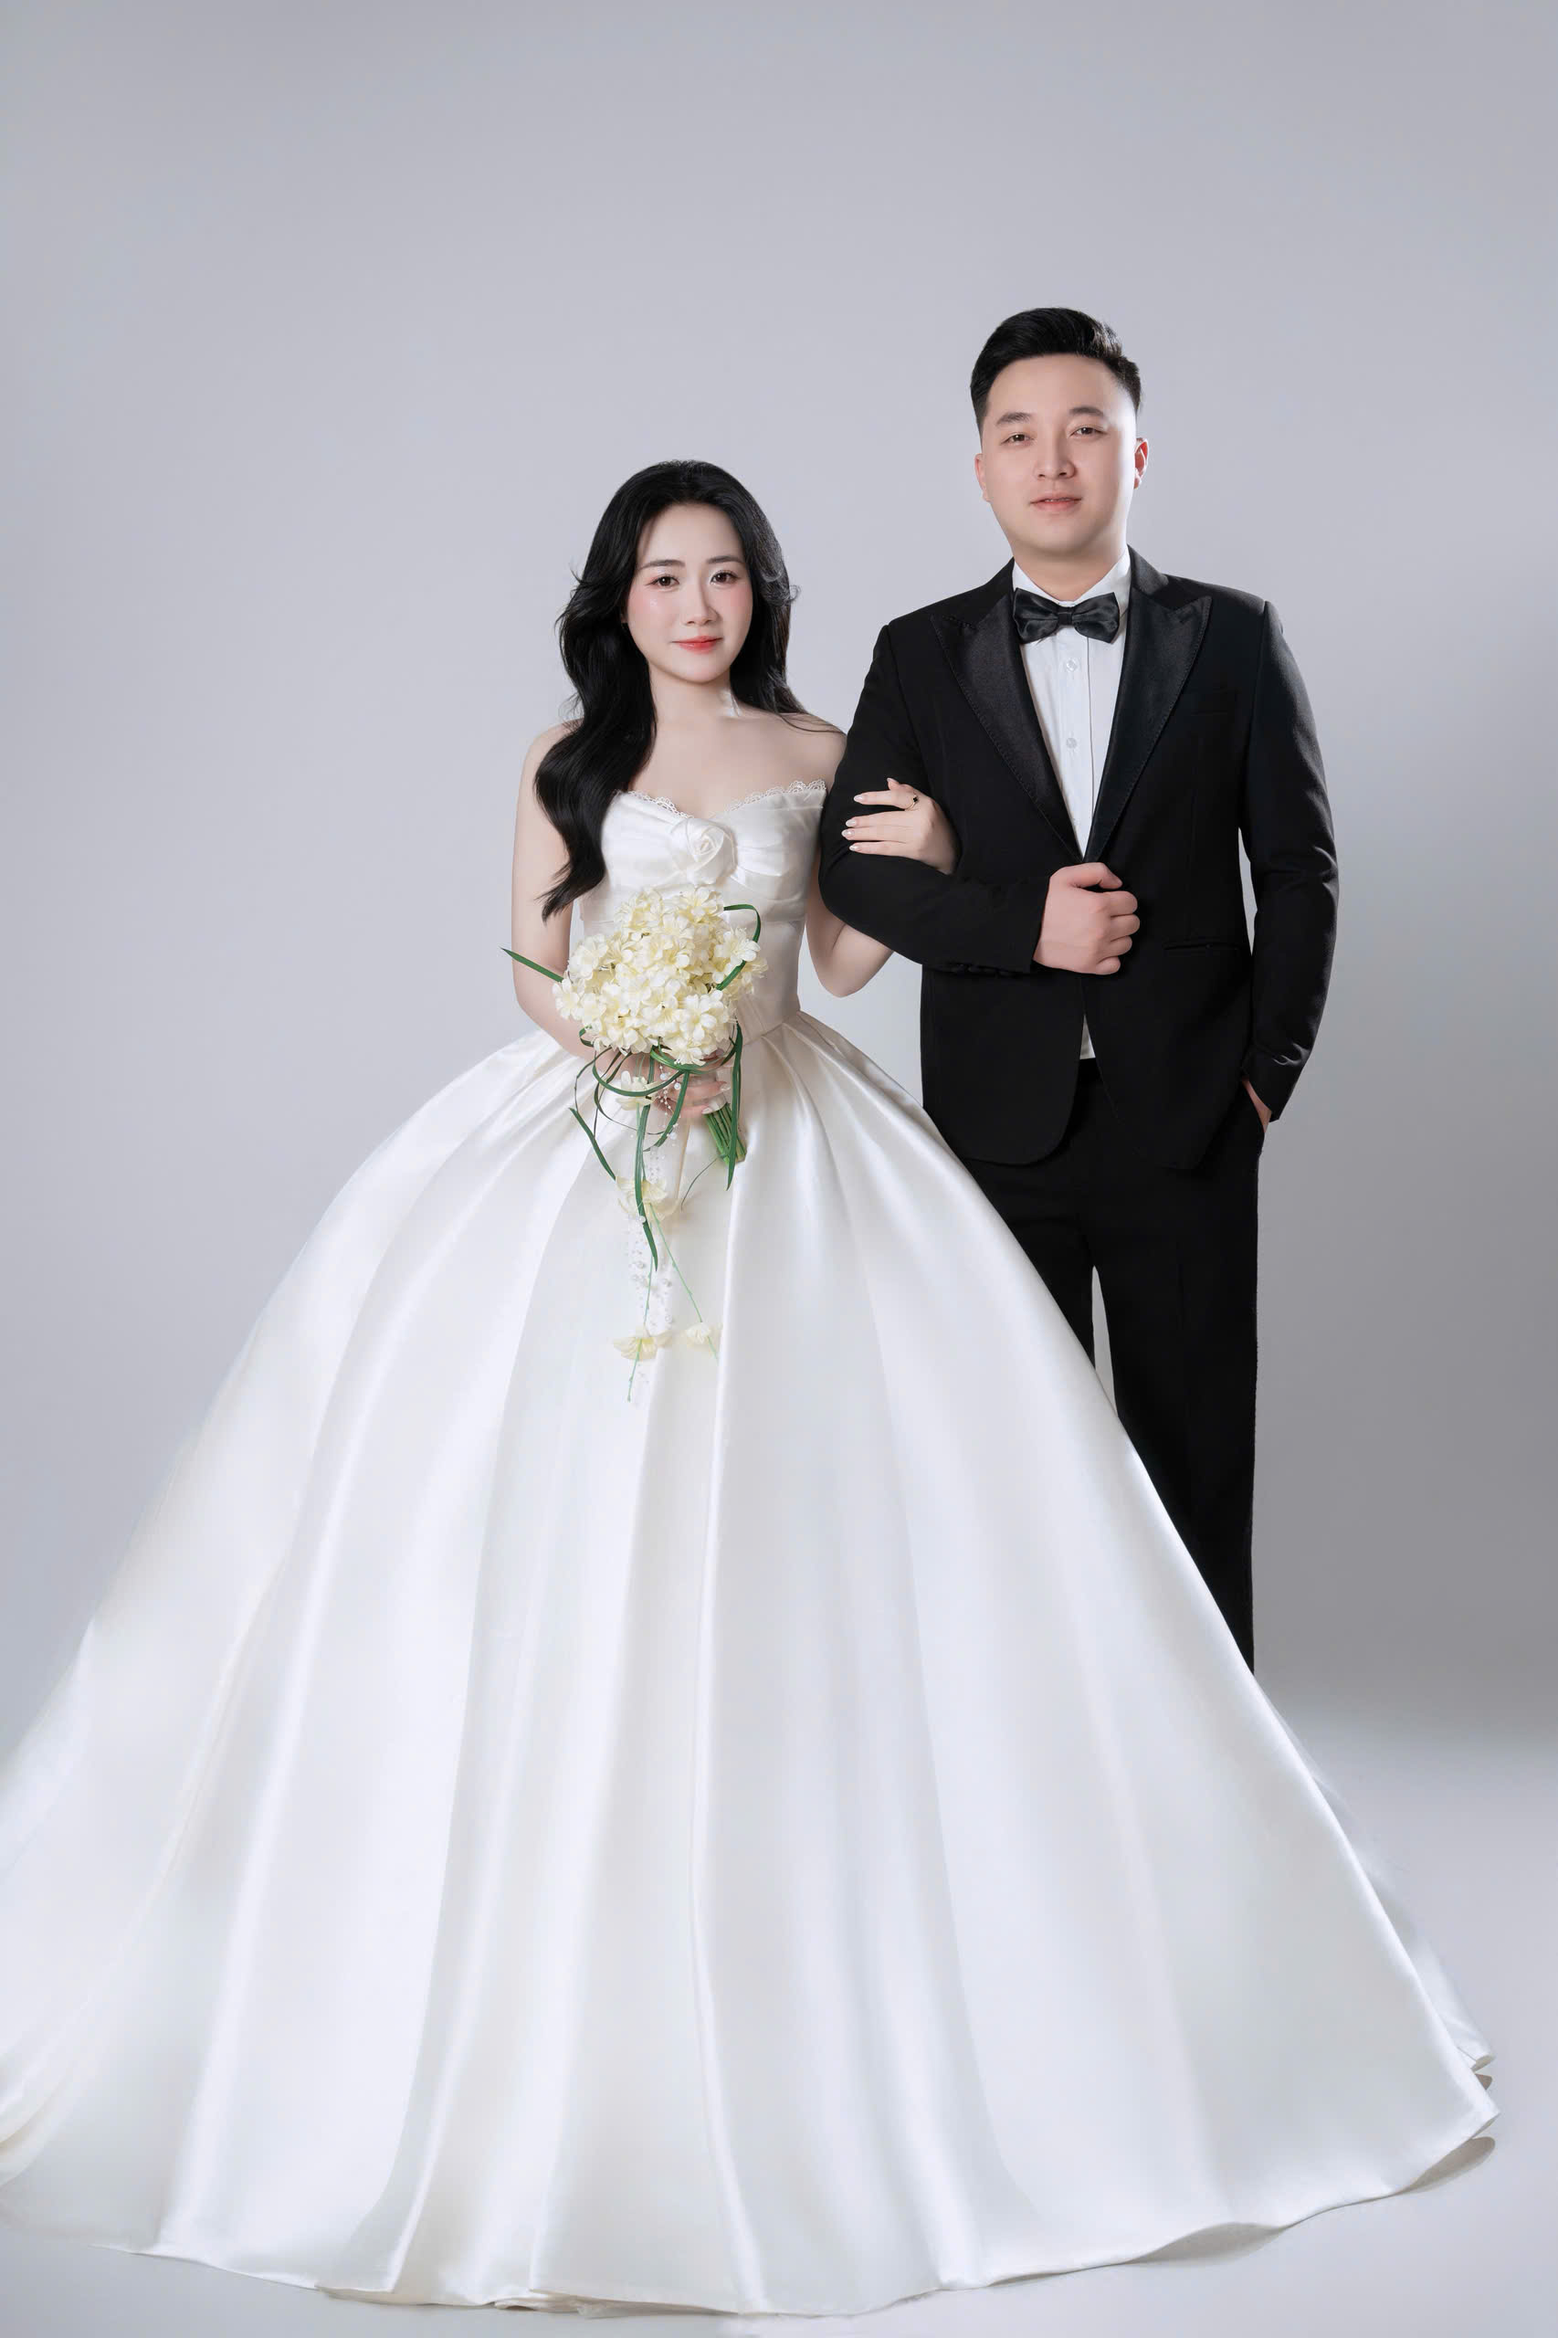
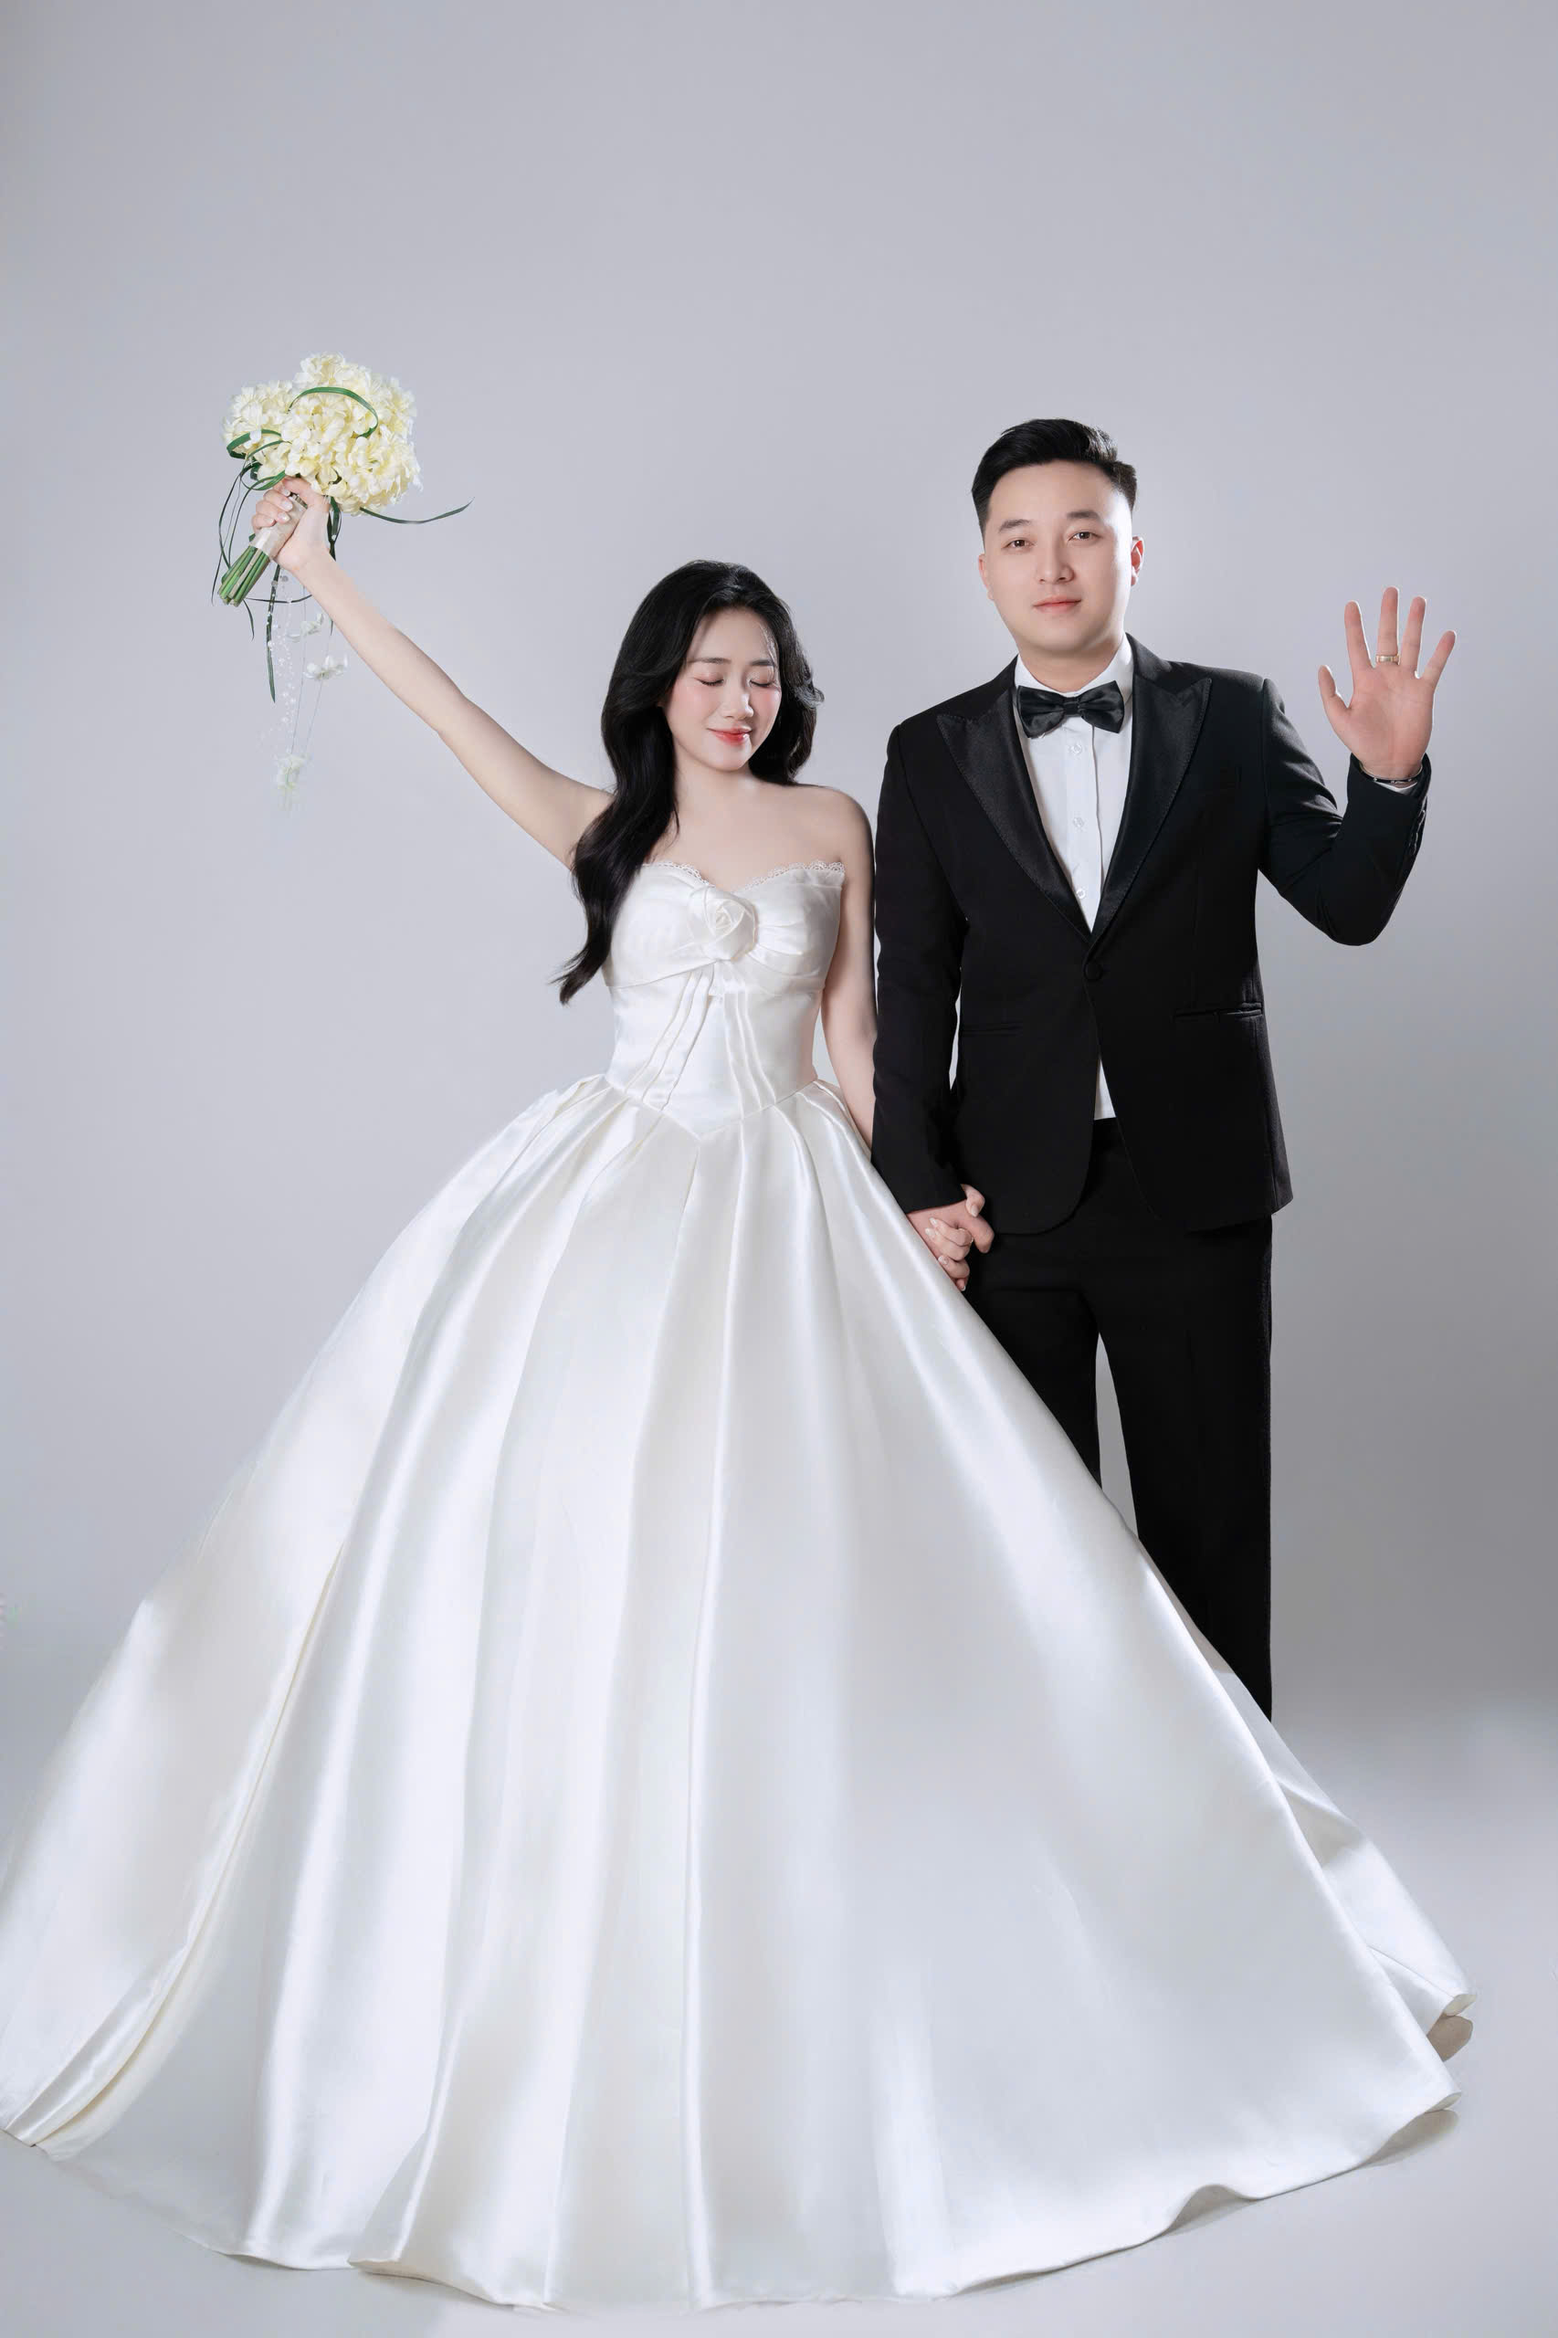
ok

Changed region(s): [[0.0, 0.125, 0.9631, 1.0], [0.5592, 0.9375, 0.6835, 1.0], [0.2485, 0.5625, 0.2796, 0.625]]

diff --git a/src/App.jsx b/src/App.jsx
@@ -27,6 +27,68 @@ const FadeInSection = ({ children, className = "", delay = 0 }) => {
   );
 };
 
+const SlideInSection = ({ children, className = "", from = "left", delay = 0 }) => {
+  const x = from === "left" ? -72 : 72;
+  return (
+    <motion.div
+      initial={{ opacity: 0, x }}
+      whileInView={{ opacity: 1, x: 0 }}
+      viewport={{ once: true, margin: "-80px" }}
+      transition={{ duration: 0.75, delay, ease: "easeOut" }}
+      className={className}
+    >
+      {children}
+    </motion.div>
+  );
+};
+
+const eventHeadingVariants = {
+  hidden: {},
+  visible: {
+    transition: { staggerChildren: 0.14, delayChildren: 0.06 },
+  },
+};
+
+const eventTitleVariants = {
+  hidden: { opacity: 0, y: -28, scale: 0.92 },
+  visible: {
+    opacity: 1,
+    y: 0,
+    scale: 1,
+    transition: { duration: 0.72, ease: [0.22, 1, 0.36, 1] },
+  },
+};
+
+const eventLineVariants = {
+  hidden: { scaleX: 0, opacity: 0 },
+  visible: {
+    scaleX: 1,
+    opacity: 1,
+    transition: { duration: 0.55, ease: "easeOut" },
+  },
+};
+
+const EventSectionHeading = () => (
+  <motion.div
+    className="text-center mb-16"
+    variants={eventHeadingVariants}
+    initial="hidden"
+    whileInView="visible"
+    viewport={{ once: true, margin: "-90px" }}
+  >
+    <motion.h2
+      variants={eventTitleVariants}
+      className="font-cursive text-5xl md:text-6xl text-[#8d6e63] drop-shadow-sm"
+    >
+      Sự Kiện
+    </motion.h2>
+    <motion.div
+      variants={eventLineVariants}
+      className="h-[2px] w-28 bg-gradient-to-r from-transparent via-[#d4af37] to-transparent mx-auto mt-6 origin-center"
+    />
+  </motion.div>
+);
+
 const MusicPlayer = ({ isPlaying, onToggle, hasStarted }) => {
   const audioRef = useRef(null);
 
@@ -146,6 +208,7 @@ function App() {
   const [isPlaying, setIsPlaying] = useState(false);
   const [hasStarted, setHasStarted] = useState(false);
   const [showWelcome, setShowWelcome] = useState(true);
+  const [scrollLocked, setScrollLocked] = useState(true);
   const [isExiting, setIsExiting] = useState(false);
   const [formStatus, setFormStatus] = useState({ submitting: false, success: false, error: null });
   const [rsvpSelection, setRsvpSelection] = useState("");
@@ -189,7 +252,7 @@ function App() {
   };
 
   const handleStart = () => {
-    console.log("Start button clicked - Activating YouTube Player");
+    window.scrollTo(0, 0);
     setHasStarted(true);
     setIsPlaying(true);
     setIsExiting(true);
@@ -236,9 +299,45 @@ function App() {
 
     return () => clearInterval(timer);
   }, []);
+
+  useEffect(() => {
+    if (!scrollLocked) return;
+    const scrollY = window.scrollY;
+    const body = document.body;
+    const html = document.documentElement;
+    const prev = {
+      bodyOverflow: body.style.overflow,
+      bodyPosition: body.style.position,
+      bodyTop: body.style.top,
+      bodyLeft: body.style.left,
+      bodyRight: body.style.right,
+      bodyWidth: body.style.width,
+      htmlOverflow: html.style.overflow,
+    };
+
+    body.style.overflow = "hidden";
+    html.style.overflow = "hidden";
+    body.style.position = "fixed";
+    body.style.top = `-${scrollY}px`;
+    body.style.left = "0";
+    body.style.right = "0";
+    body.style.width = "100%";
+
+    return () => {
+      body.style.overflow = prev.bodyOverflow;
+      body.style.position = prev.bodyPosition;
+      body.style.top = prev.bodyTop;
+      body.style.left = prev.bodyLeft;
+      body.style.right = prev.bodyRight;
+      body.style.width = prev.bodyWidth;
+      html.style.overflow = prev.htmlOverflow;
+      window.scrollTo(0, 0);
+    };
+  }, [scrollLocked]);
+
   return (
     <div className="bg-[#fdfaf5] font-sans text-gray-800">
-      <AnimatePresence>
+      <AnimatePresence onExitComplete={() => setScrollLocked(false)}>
         {showWelcome && <WelcomeOverlay onStart={handleStart} isExiting={isExiting} />}
       </AnimatePresence>
       <MusicPlayer isPlaying={isPlaying} onToggle={handleToggleMusic} hasStarted={hasStarted} />
@@ -512,12 +611,10 @@ yêu người vừa ý, cưới người mình thương...
       {/* Events / Timeline */}
       <section className="py-20 bg-white px-4">
         <div className="max-w-4xl mx-auto">
-          <FadeInSection className="text-center mb-16">
-            <h2 className="font-cursive text-5xl text-[#8d6e63]">Sự Kiện</h2>
-          </FadeInSection>
-          
+          <EventSectionHeading />
+
           <div className="space-y-12">
-            <FadeInSection className="flex flex-col md:flex-row gap-8 items-center">
+            <SlideInSection from="right" className="flex flex-col md:flex-row gap-8 items-center">
               <div className="w-full md:w-1/2 aspect-video overflow-hidden rounded-lg shadow-md">
                 <img src={tieccuoi1} alt="Ceremony" className="w-full h-full object-cover" />
               </div>
@@ -529,9 +626,9 @@ yêu người vừa ý, cưới người mình thương...
                   <span>08:00 AM</span>
                 </div>
               </div>
-            </FadeInSection>
+            </SlideInSection>
             
-            <FadeInSection className="flex flex-col md:flex-row-reverse gap-8 items-center">
+            <SlideInSection from="left" className="flex flex-col md:flex-row-reverse gap-8 items-center">
               <div className="w-full md:w-1/2 aspect-video overflow-hidden rounded-lg shadow-md">
                 <img src={tieccuoi} alt="Party" className="w-full h-full object-cover" />
               </div>
@@ -543,7 +640,7 @@ yêu người vừa ý, cưới người mình thương...
                   <span>16:00 PM</span>
                 </div>
               </div>
-            </FadeInSection>
+            </SlideInSection>
           </div>
         </div>
       </section>

diff --git a/index.html b/index.html
@@ -6,17 +6,22 @@
     <meta name="viewport" content="width=device-width, initial-scale=1.0" />
     <title>Wedding Invitation - Tiến Huy & Ánh Nga</title>
     
-    <!-- Open Graph / Facebook / Zalo -->
+    <!-- Open Graph / Facebook / Zalo (og:image bắt buộc là URL https đầy đủ khi deploy — xem VITE_SITE_URL trong .env.production) -->
     <meta property="og:type" content="website" />
+    <meta property="og:url" content="__OG_PAGE_URL__" />
     <meta property="og:title" content="Lời mời dự lễ thành hôn - Tiến Huy & Ánh Nga" />
     <meta property="og:description" content="Trân trọng kính mời bạn đến dự lễ thành hôn của chúng mình vào ngày 19/04/2026. Sự hiện diện của bạn là niềm hạnh phúc lớn nhất đối với gia đình chúng mình." />
-    <meta property="og:image" content="/preview.jpg" />
-    
+    <meta property="og:image" content="__OG_IMAGE_URL__" />
+    <meta property="og:image:secure_url" content="__OG_IMAGE_URL__" />
+    <meta property="og:image:type" content="image/jpeg" />
+    <meta property="og:image:alt" content="Tiến Huy & Ánh Nga - Thiệp cưới" />
+    <link rel="canonical" href="__OG_PAGE_URL__" />
+
     <!-- Twitter -->
-    <meta property="twitter:card" content="summary_large_image" />
-    <meta property="twitter:title" content="Lời mời dự lễ thành hôn - Tiến Huy & Ánh Nga" />
-    <meta property="twitter:description" content="Trân trọng kính mời bạn đến dự lễ thành hôn của chúng mình vào ngày 19/04/2026." />
-    <meta property="twitter:image" content="/preview.jpg" />
+    <meta name="twitter:card" content="summary_large_image" />
+    <meta name="twitter:title" content="Lời mời dự lễ thành hôn - Tiến Huy & Ánh Nga" />
+    <meta name="twitter:description" content="Trân trọng kính mời bạn đến dự lễ thành hôn của chúng mình vào ngày 19/04/2026." />
+    <meta name="twitter:image" content="__OG_IMAGE_URL__" />
 
     <link rel="preconnect" href="https://fonts.googleapis.com">
     <link rel="preconnect" href="https://fonts.gstatic.com" crossorigin>

diff --git a/vite.config.js b/vite.config.js
@@ -1,11 +1,36 @@
-import { defineConfig } from 'vite'
+import { defineConfig, loadEnv } from 'vite'
 import react from '@vitejs/plugin-react'
 import tailwindcss from '@tailwindcss/vite'
 
 // https://vite.dev/config/
-export default defineConfig({
-  plugins: [
-    react(),
-    tailwindcss(),
-  ],
+export default defineConfig(({ mode }) => {
+  const env = loadEnv(mode, process.cwd(), '')
+  const siteUrl = (env.VITE_SITE_URL || '').replace(/\/+$/, '')
+
+  return {
+    plugins: [
+      react(),
+      tailwindcss(),
+      {
+        name: 'html-og-absolute-urls',
+        transformIndexHtml(html) {
+          if (mode === 'production' && !siteUrl) {
+            console.warn(
+              '\n[wedding] Thiếu VITE_SITE_URL trong .env.production — Zalo/Facebook cần URL https đầy đủ cho og:image. Ví dụ: VITE_SITE_URL=https://ten-mien-cua-ban.com\n'
+            )
+          }
+          const pageUrl = siteUrl ? `${siteUrl}/` : ''
+          const imageUrl = siteUrl ? `${siteUrl}/preview.jpg` : '/preview.jpg'
+          let out = html
+            .replaceAll('__OG_PAGE_URL__', pageUrl)
+            .replaceAll('__OG_IMAGE_URL__', imageUrl)
+          if (!pageUrl) {
+            out = out.replace(/<meta property="og:url"[^>]*>\s*/g, '')
+            out = out.replace(/<link rel="canonical"[^>]*>\s*/g, '')
+          }
+          return out
+        },
+      },
+    ],
+  }
 })
